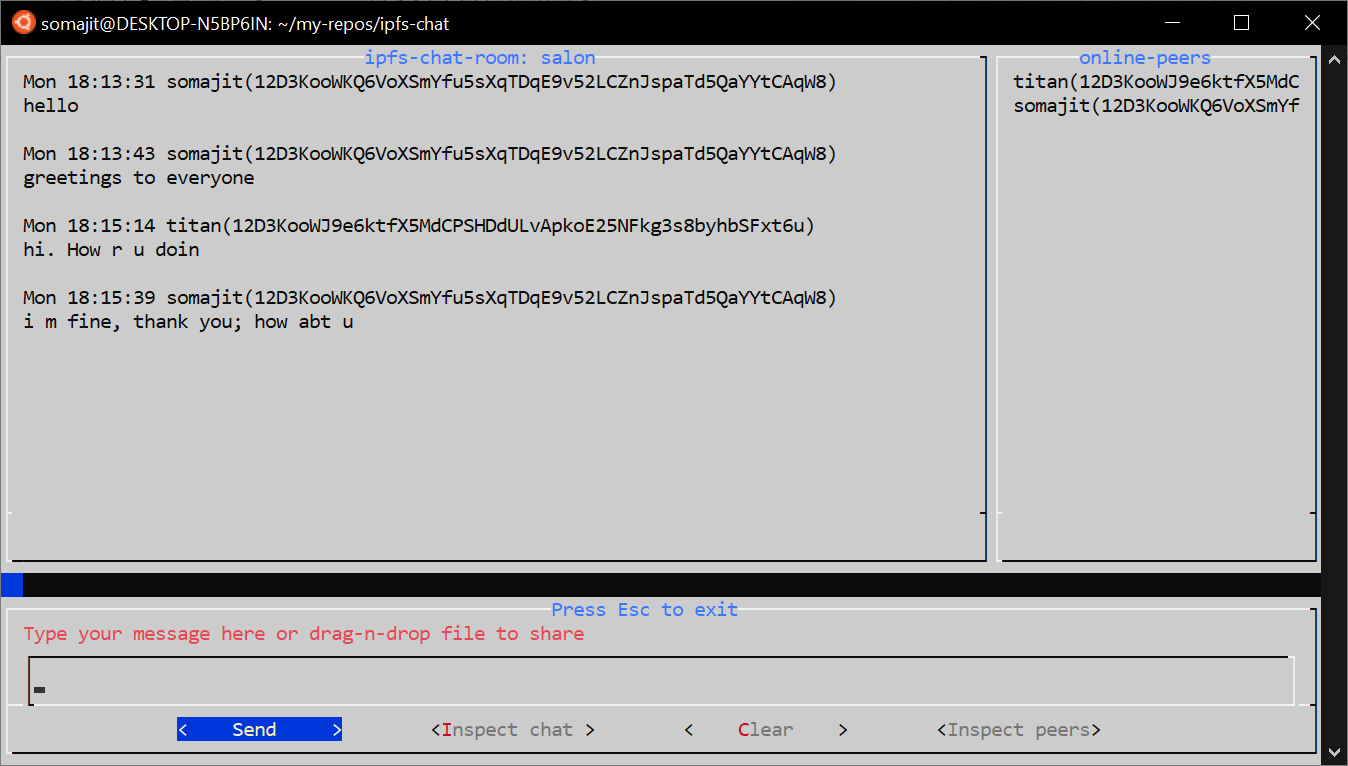
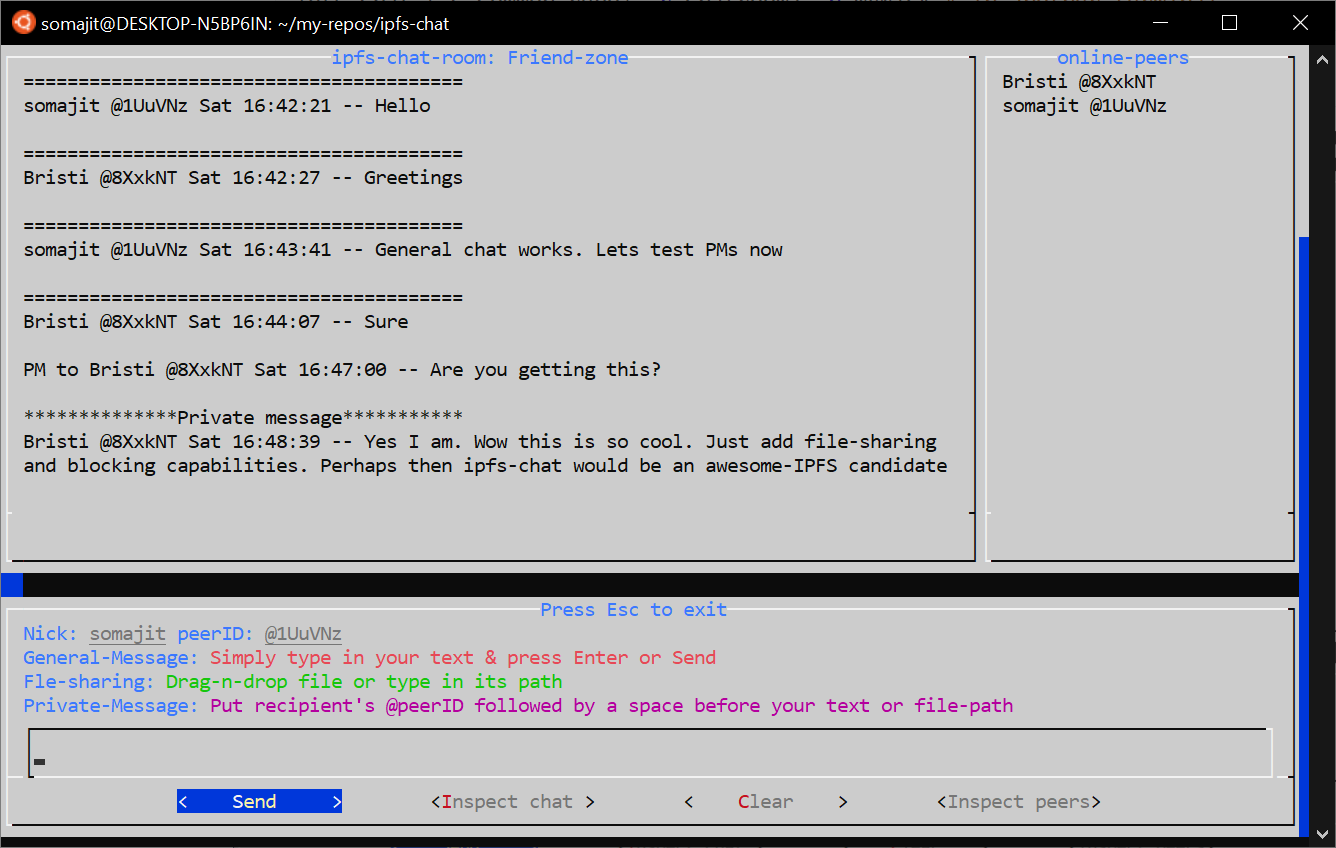
v0.1.0 (#4)
v0.1.0 Changelog --

* PM functionality added

* New CLI options: -wW ; -lL ; -o

* UI improvements

* Security updates

Changed region(s): [[0.0, 0.0, 1.0, 1.0], [0.0, 0.1802, 0.6138, 0.4504]]

diff --git a/README.md b/README.md
@@ -1,7 +1,7 @@
 # IPFS-Chat
 
-1. Real-time peer-to-peer messaging using [IPFS pubsub](https://github.com/ipfs/go-ipfs/blob/master/docs/experimental-features.md#ipfs-pubsub). Works over both internet and LAN. File-sharing is not implemented yet but will be soon.
-2. The usual *Create Alias/Nick* + *Create/Join room* workflow (akin to [IRC](https://en.wikipedia.org/wiki/Internet_Relay_Chat)).
+1. Real-time peer-to-peer messaging using [IPFS pubsub](https://github.com/ipfs/go-ipfs/blob/master/docs/experimental-features.md#ipfs-pubsub). Works over both internet and LAN. In-chat file-sharing is not implemented yet but will be soon.
+2. The usual *Create Alias/Nick* + *Create/Join room* workflow (akin to [IRC](https://en.wikipedia.org/wiki/Internet_Relay_Chat)). Additionally, any online chatroom peer may be sent private messages (PM) that cannot be seen by the other online peers.
 3. Peers are discovered using [DHT](https://docs.ipfs.io/concepts/dht/), [pubsub](https://docs.libp2p.io/concepts/publish-subscribe/) and [mDNS](https://en.wikipedia.org/wiki/Multicast_DNS) (See [Peer discovery](#peer-discovery)). No need for any rendezvous server.
 4. Chat-messages are authenticated and end-to-end encrypted (See [Security](#security)).
 5. Very basic terminal-based UI without any eye candy.
@@ -12,11 +12,55 @@
 ## Usage
 
 ```shell
-ipfs-chat -r <room> -n <nick> -d <download directory> -c <ipfs repo>
+ipfs-chat -r <room> -n <nick> -d <download directory> -c <ipfs repo> -o <chat log> -wWlL
 ipfs-chat -g # Generating a random room name, for when your brain can't do it
 ipfs-chat -v # Version
 ipfs-chat -h # Help
 ```
+
+All command-line options/flags are optional. Unobvious options are explained below.
+
+`-c` passes the directory where `ipfs-chat` would host the IPFS node; similar to the `-c` option in the `ipfs` cli. Unlike `ipfs` cli however, the environment variable `IPFS_PATH` has no effect.
+
+`-d` passes the directory where the files received from peers would be downloaded.
+
+`-o` passes the file where the chat from the present session would be logged.
+
+`-w` or `-W` denotes WAN-only mode. Local discovery is disabled. Everything happens over internet only. Uses WAN-DHT.
+
+`-l` or `-L` denotes LAN-only mode. Peers are discovered only locally, no connection to the IPFS public network is formed over the internet (no bootstrap node, uses LAN-DHT). Saves resources when all chatroom peers are known to be present across LAN. Launches `ipfs-chat` faster when not connected to the internet.
+
+**Defaults**:
+
+room: `Salon`
+
+nick: `${USER}`
+
+download directory: `${HOME}/ipfs-chat-downloads`
+
+repo: `${HOME}/.ipfs-chat`
+
+chat log: N/A
+
+WAN + LAN
+
+**Multiple-instances**:
+
+Multiple instances of `ipfs-chat` may be run for accessing different chatrooms concurrently. This may be done in 2 ways:
+
+1. Provide a separate IPFS repository with the `-c` flag for every instance. Each instance then runs its own IPFS node independent of the others. Example: 
+
+   ```shell
+   ipfs-chat -c '/tmp/repo1' -r chatroom1 -n nick1 # In one terminal
+   ipfs-chat -c '/tmp/repo2' -r chatroom2 -n nick2 # In another terminal
+   ```
+
+2. If you are okay with using the same *nick* for every chatroom, then it is much more efficient to run the multiple instances on the same IPFS node, i.e. with the same IPFS repository. Example: 
+
+   ```shell
+   ipfs-chat [-c common-repo] -r chatroom1 -n myNick # In one terminal
+   ipfs-chat [-c common-repo] -r chatroom2 -n myNick # In another terminal
+   ```
 
 ## Snapshot
 
@@ -42,9 +86,11 @@ Also, if a peer sees a message (over pubsub) from a peer that it is not directly
 
 Authenticity of the messages is established through IPNS over pubsub (See [Messaging](#messaging)).
 
-All messages are encrypted with a symmetric key derived from the room name using HMAC.
+All general messages are encrypted with a symmetric key (AES128) derived from the room name using HMAC.
 
-The pubsub topics are separate HMAC keys derived from the room name. 
+All private messages are encrypted with a public key (ECDH/cv25519) belonging to the recipient.
+
+The pubsub topics are separate HMAC keys derived from the room name.
 
 Therefore, the public network, that mediates the pubsub and passes the messages along, never knows the actual room name and hence, the encryption key.
 
@@ -52,11 +98,11 @@ Before deriving the keys, the room name is itself hashed using a memory- and CPU
 
 ## Messaging
 
-Every peer publishes its nick and a self-signed PGP ed25519 pubkey under its peer ID over IPNS at the start of every session. This authenticates its claim over the nick and pubkey.
+Every peer publishes its nick and a self-signed PGP public key (primary-key EDDSA/ed25519 for signing + subkey ECDH/cv25519 for encryption) under its peer ID over IPNS at the start of every session. This authenticates its claim over the nick and the public key.
 
 After discovering a peer, other peers resolve its IPNS entry and caches its nick and pubkey for use throughout the session.
 
-For messaging, a peer signs its message with its private key and encrypts with the aforementioned symmetric key derived from the room name. The whole encrypted object is encoded in base64 and published over pubsub along with the sender's peer ID.
+For general messaging, a peer signs its message with its private key and encrypts with the aforementioned symmetric key derived from the room name. For private messaging, the message is encrypted with the recipient's public key instead. The whole encrypted object is encoded in base64 and published over pubsub along with the sender's peer ID.
 
 Other peers receive this over pubsub, decrypt the message and verify the signature. If everything is ok, they then display the message in their UI against the sender's nick, peer ID and timestamp.
 
@@ -74,14 +120,22 @@ To achieve this, `ipfs-chat` uses its own connection manager and does not use th
 
 The go-ipfs config file has been tuned to reduce resource (CPU/bandwidth/memory) consumption.
 
+WAN-only and LAN-only modes are available (see [Usage](#usage)) to further optimize resource consumption under different situations.
+
 **Tip**: To show bandwidth usage by the node at the end of a session, launch `ipfs-chat` with the `-b` flag. Note that this shows the cumulative bandwidth consumption by all `ipfs-chat` instances using the same node at the same time.
+
+## Warning
+
+`ipfs-chat` does a `pkill -s0` while exiting which closes all processes in the current terminal session. Fixing this limitation is in the TODO list. For the time being, however, it is advised that `ipfs-chat` be opened in a new terminal whenever possible.
 
 ## Future directions
 
-1. Secure file sharing. Files to be shared can simply be dragged and dropped in the text-input area. Support for WSL.
+1. Secure file sharing. Files to be shared can simply be dragged and dropped in the text-input area. Support for WSL. Download limit (byte size *int*) can be specified with option `-D` to control bandwidth consumption - the user would be prompted before larger files downloads. `-D 0` : prompt always; `-D n` : prompt before downloading files larger than *n* bytes; `-D -n` : prompt never.
 2. Using Argon2 for more security (See [Security](#security)).
-3. Private messages: To PM a peer simply prefix your message with @nick(peer ID).
-4. Offline mode such that even if a peer goes offline, it can obtain the missed messages when it comes back online [This may well be beyond my capabilities].
+4. Command-line option for manual update: `-u`. Try auto-update in background always and prompt user when new update is available.
+5. Detect and block malicious peers. All direct connections to blocked peers are culled. Users can also block (and unblock later) specific nicks (regex pattern), peer IDs. While blocking users can opt for - 1. Block permanently; 2. For present session only. **TBD**: News of this blocking (who blocked whom and when) may or may not be published over pubsub for other peers to see and decide for themselves.
+9. Secure directory transfer
+10. Offline mode such that even if a peer goes offline, it can obtain the missed messages when it comes back online [This may well be beyond my capabilities]. Once [`orbit-db-cli`](https://github.com/orbitdb/orbit-db-cli) matures, it might help achieve this. Random idea: Online peers publish CIDs of time-based logs at regular intervals over pubsub. Logs are directories containing chats - one message in one file. Even if logs of two peers don't match exactly, they will have many files in common, thus achieving major deduplication and also helping availability across the ipfs-chat network.
 
 ## Bug-reports and Feedbacks
 
